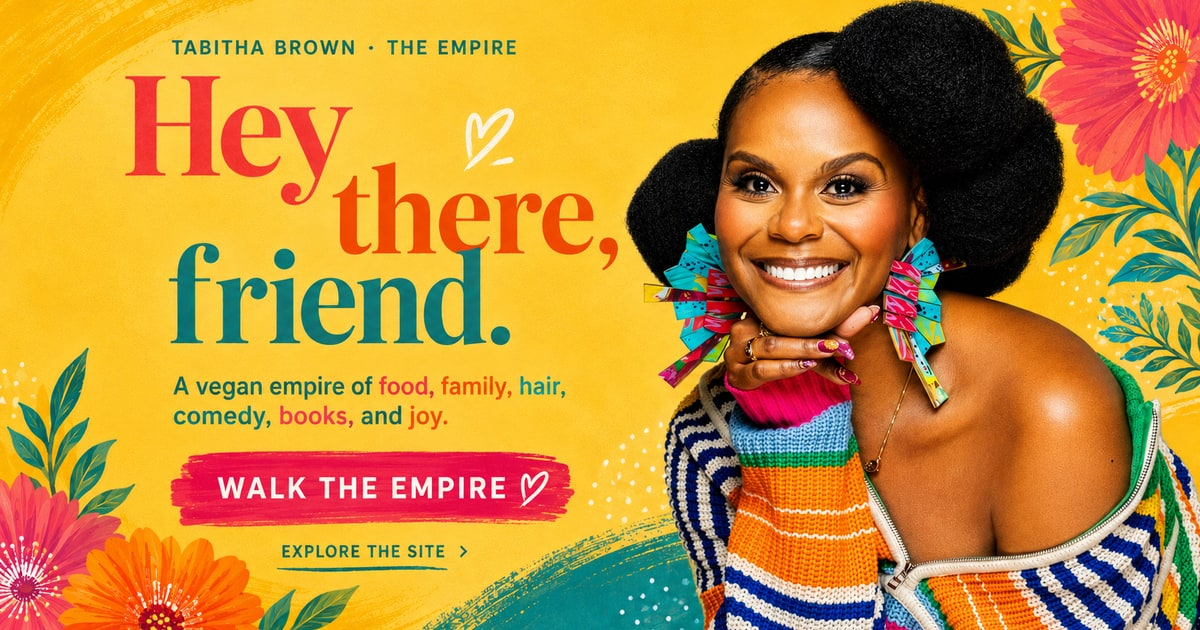
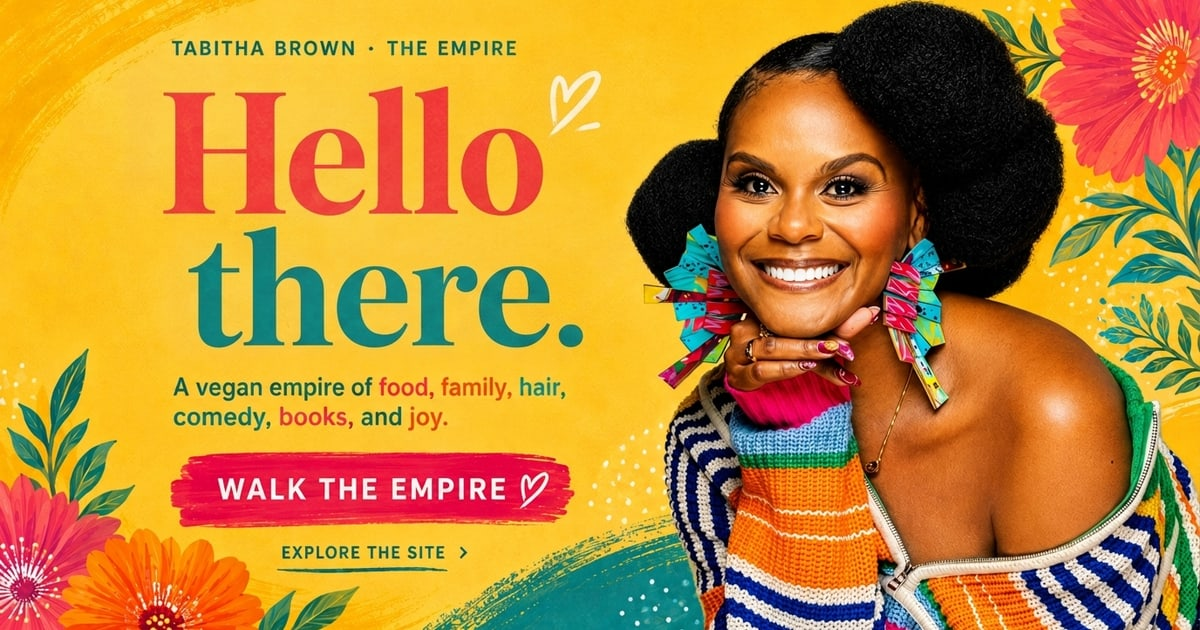
fix(v2): drop "friend" sitewide → "Hello there." + update social card
Per Stephen's review:
- Remove "friend" from all 6 spots (4 OG/Twitter meta tags, intro
  wordmark, hero slide overlay) so the greeting reads "Hello there."
- Re-letter the OG social card from "Hey there, friend." to
  "Hello there." in matching brush script; regenerate og-1200x630
  and og-1200x1200 (add scripts/regenerate-og.mjs helper).

diff --git a/v2.html b/v2.html
@@ -11,21 +11,21 @@
 <meta property="og:type" content="website" />
 <meta property="og:site_name" content="Tabitha Brown" />
 <meta property="og:url" content="https://taylormadecreative.github.io/tabitha-brown-site/v2.html" />
-<meta property="og:title" content="Tabitha Brown — Hello there, friend." />
+<meta property="og:title" content="Tabitha Brown — Hello there." />
 <meta property="og:description" content="A vegan empire of food, family, hair, comedy, books, and joy. Held together by one woman who tells the truth." />
 <meta property="og:image" content="https://taylormadecreative.github.io/tabitha-brown-site/og-1200x630.jpg" />
 <meta property="og:image:secure_url" content="https://taylormadecreative.github.io/tabitha-brown-site/og-1200x630.jpg" />
 <meta property="og:image:type" content="image/jpeg" />
 <meta property="og:image:width" content="1200" />
 <meta property="og:image:height" content="630" />
-<meta property="og:image:alt" content="Tabitha Brown — Hello there, friend. A vegan empire of food, family, hair, comedy, books, and joy." />
+<meta property="og:image:alt" content="Tabitha Brown — Hello there. A vegan empire of food, family, hair, comedy, books, and joy." />
 <meta property="og:locale" content="en_US" />
 
 <meta name="twitter:card" content="summary_large_image" />
-<meta name="twitter:title" content="Tabitha Brown — Hello there, friend." />
+<meta name="twitter:title" content="Tabitha Brown — Hello there." />
 <meta name="twitter:description" content="A vegan empire of food, family, hair, comedy, books, and joy." />
 <meta name="twitter:image" content="https://taylormadecreative.github.io/tabitha-brown-site/og-1200x630.jpg" />
-<meta name="twitter:image:alt" content="Tabitha Brown — Hello there, friend." />
+<meta name="twitter:image:alt" content="Tabitha Brown — Hello there." />
 <meta name="twitter:site" content="@iamtabithabrown" />
 <meta name="twitter:creator" content="@iamtabithabrown" />
 <meta name="robots" content="noindex, nofollow" />
@@ -915,7 +915,7 @@
     <source type="image/avif" srcset="/src/assets/img/booking-stage-crowd-1280.avif" />
     <img src="/src/assets/img/booking-stage-crowd-1280.jpg" alt="" />
   </picture>
-  <p class="intro__wordmark">Hello there, friend.</p>
+  <p class="intro__wordmark">Hello there.</p>
   <p class="intro__sub">Tabitha Brown &middot; The Empire</p>
 </div>
 
@@ -954,7 +954,7 @@
     <div class="slide__content">
       <p class="slide__eyebrow">Tabitha Brown &middot; 2026</p>
       <div class="slide__bottom">
-        <p class="slide__overlay">Hello there,<br>friend.</p>
+        <p class="slide__overlay">Hello there.</p>
         <div class="slide__cta-wrap">
           <p class="slide__caption">A vegan empire of food, family, hair, comedy, books, and joy. Held together by one woman who tells the truth.</p>
           <button type="button" class="slide__cta" data-advance>
